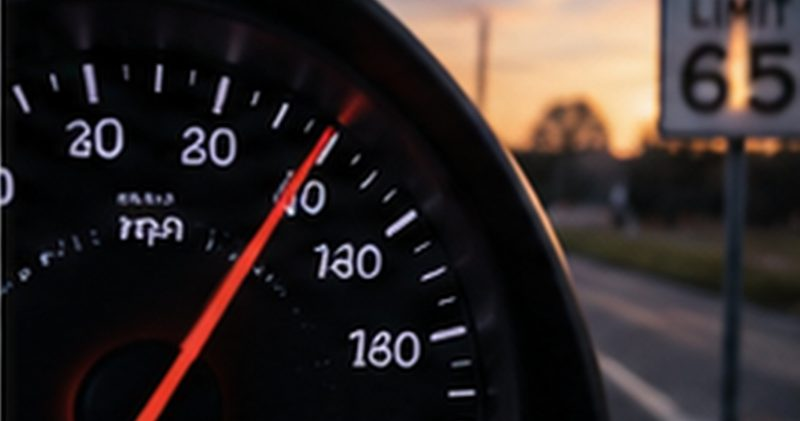
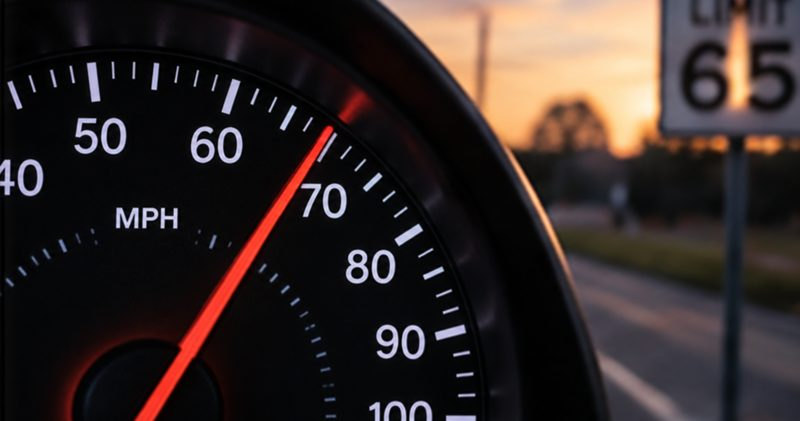
Speed: replace header image
Claude-Session: https://claude.ai/code/session_01RpsXpKarJpX1k4hJEjerha

diff --git a/src/articles/30-speed.md b/src/articles/30-speed.md
@@ -7,7 +7,7 @@ description: "Speeding was a factor for a third of teen drivers in fatal crashes
 published: "2026-10-11T04:44:00Z"
 image: "/images/articles/a30-speed.jpg"
 imageSm: "/images/articles/a30-speed-800.jpg"
-imageAlt: "A speedometer at dusk with a 65 mph speed limit sign outside."
+imageAlt: "A speedometer needle just past 65 mph at dusk, with a 65 mph speed limit sign outside."
 cluster: "The Real Risks"
 sources:
   - nhtsa-teen
